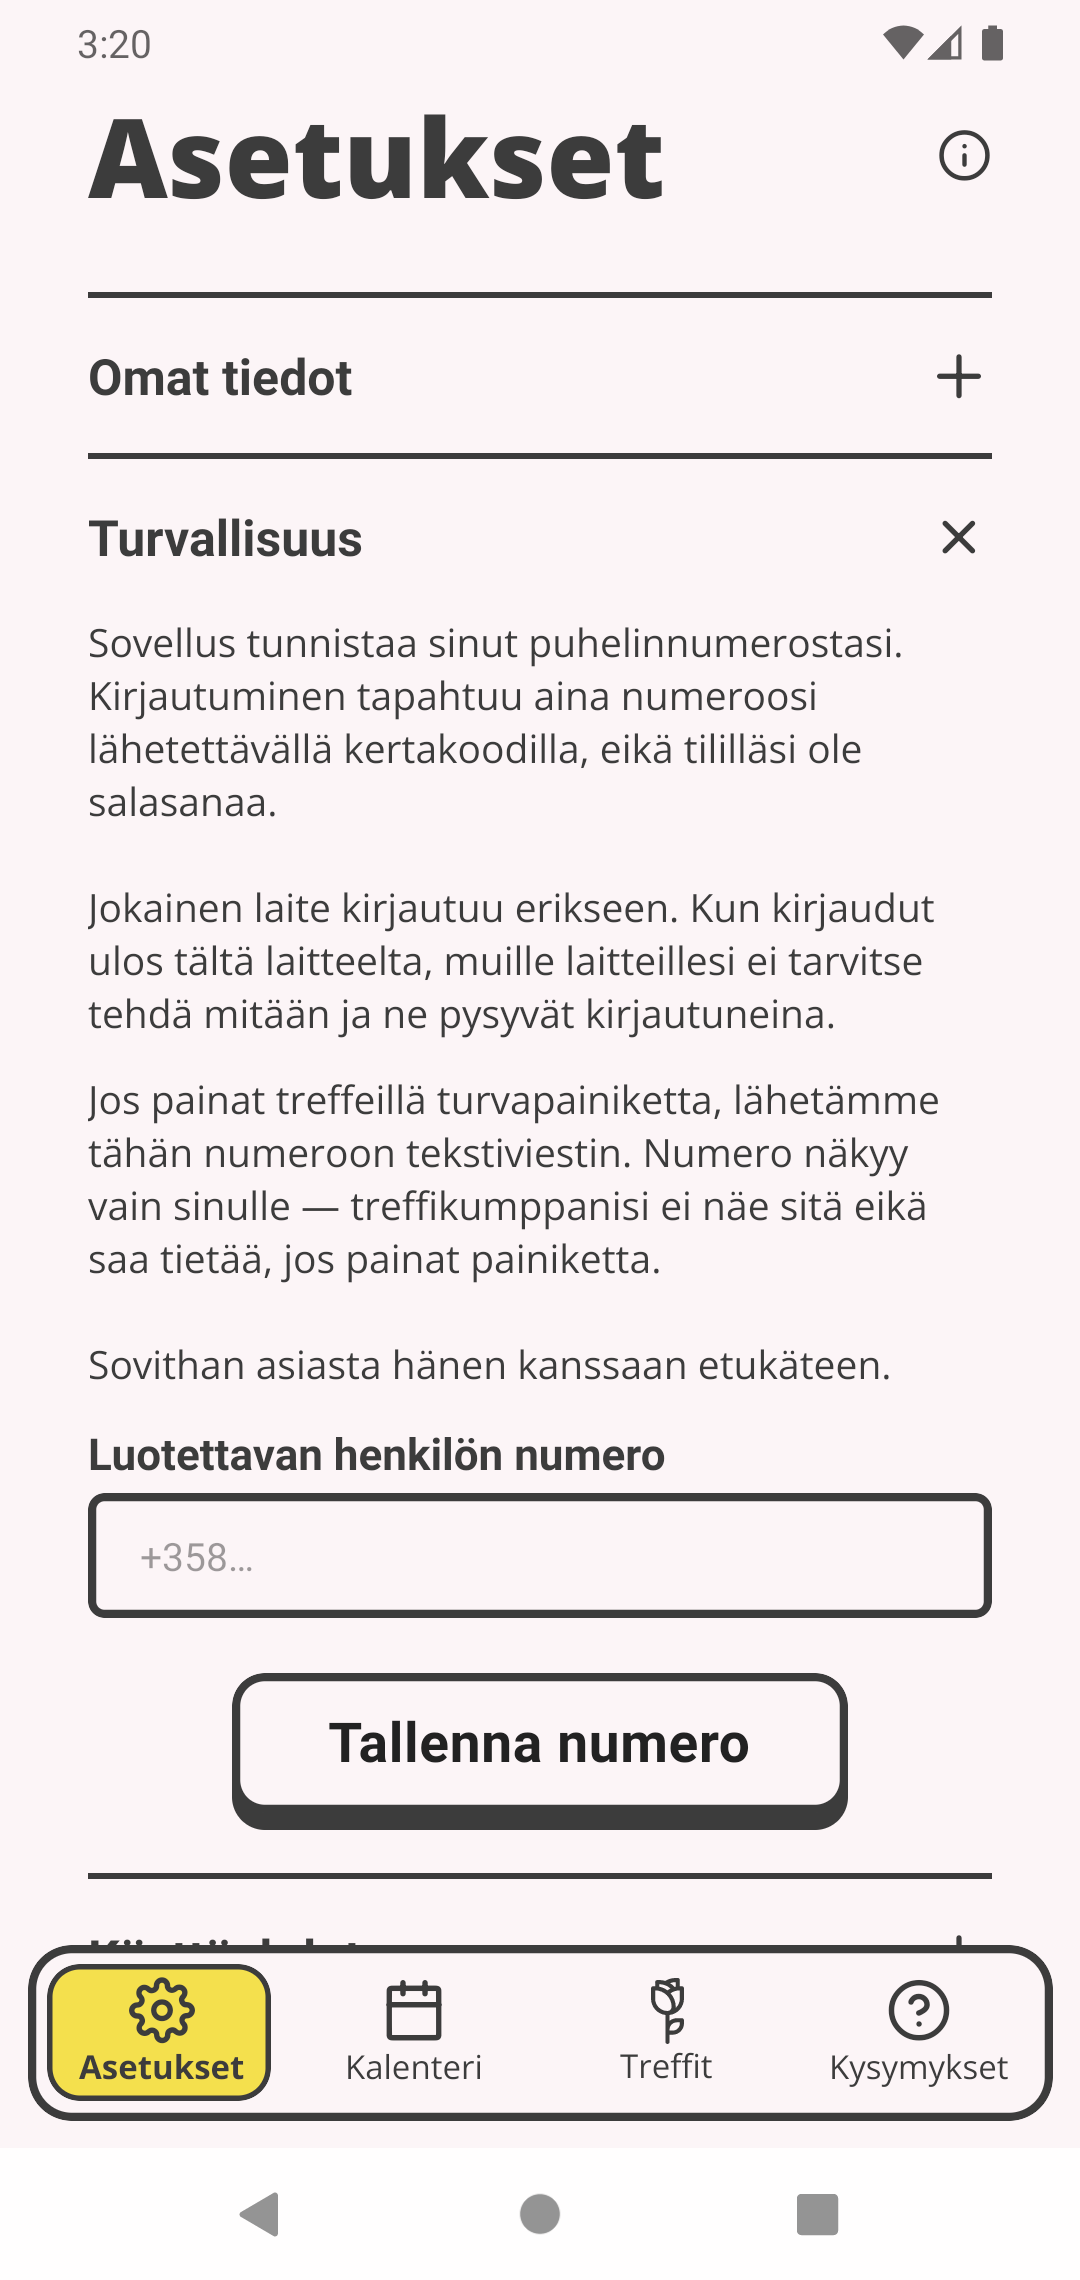
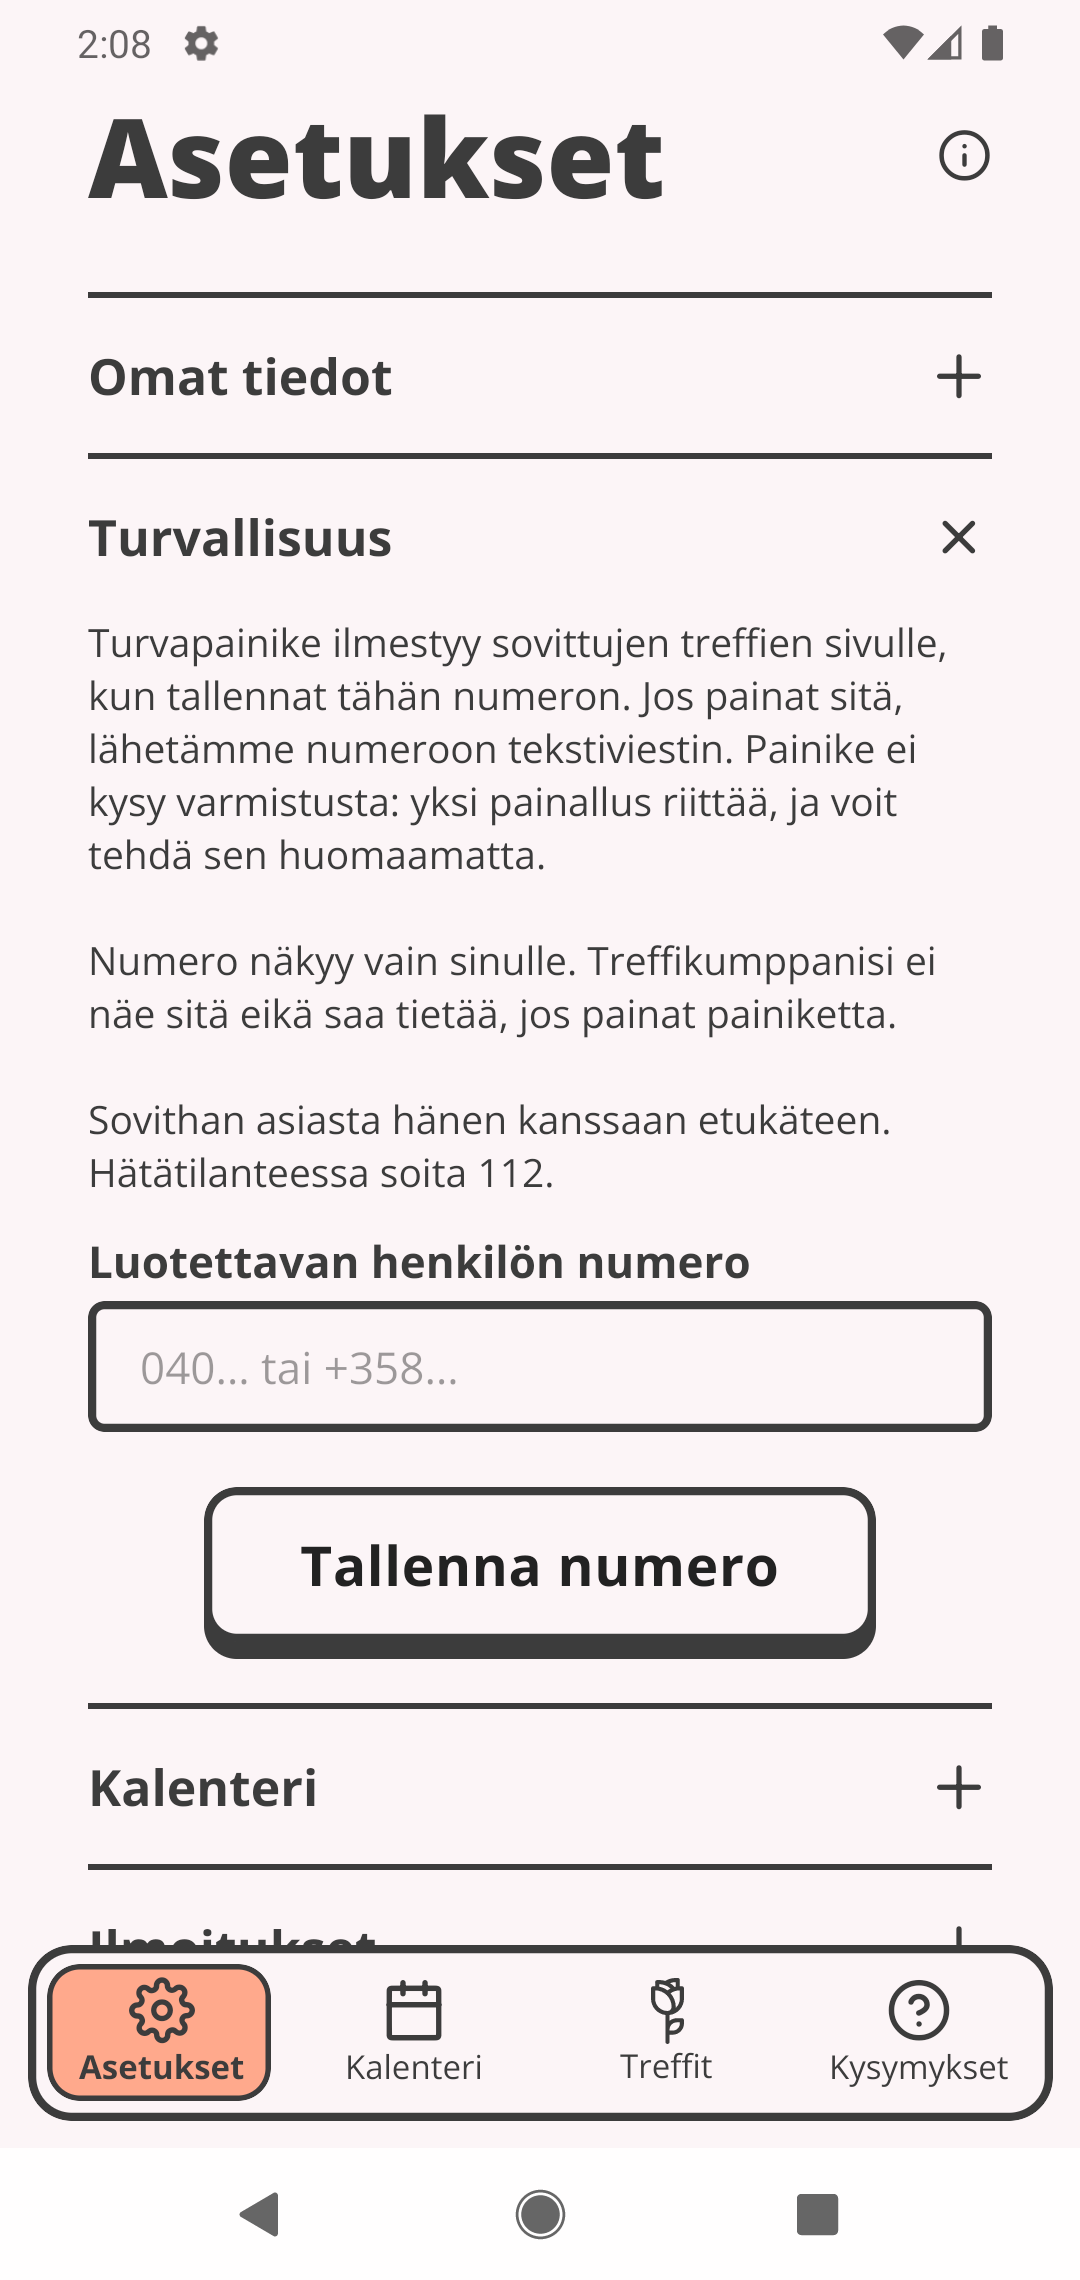
brand: move the site from yellow to coral
Follows `pilke-app`: `--brand-main` `#f4e04d` -> `#ffa98c` and `--brand-background`
`#fff8c2` -> `#ffe3da`, with `--card-confirmed` following the app's, where that
tint *is* the brand background.

`--card-feedback` moves to `#fff8c2`, the yellow the brand vacated. In the app the
coral put `confirmed` seven units of blue away from the old apricot `#ffe3d3` --
one colour on screen for two different states -- so the feedback stack took the
free hue rather than keeping a shade nobody could tell from its neighbour.
`PetalField`'s default motif moves with it.

`.slab-yellow` is now `.slab-brand`. A class named for a colour is exactly the
thing that goes stale the first time the colour moves, and it just did.

All seven app screenshots re-shot against the coral build -- same flows, same
fixture, same cast -- so the phones on the page show the app as it now is rather
than a release and a half ago.

Claude-Session: https://claude.ai/code/session_01GD9L6NkBiCqNs6T5pZN8hJ

diff --git a/src/styles/bold.css b/src/styles/bold.css
@@ -1,5 +1,5 @@
 /*
-  The bolder treatment: flat yellow blocks, oversized Courgette, the petal
+  The bolder treatment: flat coral blocks, oversized Courgette, the petal
   motif as texture. Loaded once by `Base.astro`, so every page has it.
 
   Everything here builds on the tokens in global.css rather than introducing new
@@ -30,7 +30,7 @@
   z-index: 1;
 }
 
-.slab-yellow {
+.slab-brand {
   background: var(--brand-main);
 }
 
@@ -97,7 +97,7 @@
 
 /*
   The one button on the site, wherever it appears: a flat offset key on an ink
-  edge, brand ground by default, white where it stands on a yellow slab. It is
+  edge, brand ground by default, white where it stands on a brand slab. It is
   here rather than in each page because a link out of the safety page and the
   submit key in the footer are the same control and have to look it.
 
@@ -120,7 +120,7 @@
   cursor: pointer;
 }
 
-/* On a yellow slab the brand ground disappears into it. */
+/* On a brand slab the brand ground disappears into it. */
 .go.ghost {
   background: var(--white);
 }

diff --git a/src/styles/global.css b/src/styles/global.css
@@ -41,14 +41,14 @@
   --success: #a8dacb;
   --muted: #808080;
   --error: #ff7075;
-  --brand-background: #fff8c2;
-  --brand-main: #f4e04d;
+  --brand-background: #ffe3da;
+  --brand-main: #ffa98c;
 
   /* The four match-list tints, used here to colour the steps of the loop. */
-  --card-confirmed: #fff8c2;
+  --card-confirmed: #ffe3da;
   --card-sent: #dcfbff;
   --card-received: #ffeafc;
-  --card-feedback: #ffe3d3;
+  --card-feedback: #fff8c2;
 
   /* dimensions.ts */
   --radius-small: 8px;
